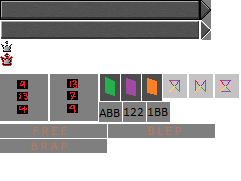
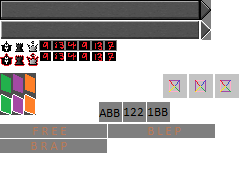
Finished lights puzzle

Changed region(s): [[0.0, 0.221, 0.6971, 0.6906]]

diff --git a/CubesPuzzle.h b/CubesPuzzle.h
@@ -1,5 +1,5 @@
-#ifndef LIGHTSPUZZLE_H
-#define LIGHTSPUZZLE_H
+#ifndef CUBESPUZZLE_H
+#define CUBESPUZZLE_H
 
 #include "room.h"
 #include "roomArrow.h"
@@ -7,20 +7,24 @@
 #include "gameMenu.h"
 #include "gameItem.h"
 
-// first room puzzle
-class LightsPuzzle: public Room {
+// Cubes puzzle
+class CubesPuzzle: public Room {
     private:
         RoomArrow* buttons;
         GameItem* options;
         bool mainWall;
         int nOptions;
+        bool answerOne;
+        bool answerTwo;
     public:
         // constructor
-        LightsPuzzle(RenderWindow* win) {
+        CubesPuzzle(RenderWindow* win) {
             // initialises room settings
-            setRoom(320,0);
+            setRoom(160,180);
             active = false;
             mainWall = true;
+            answerOne = false;
+            answerTwo = false;
 
             // defines the number of arrows and defines each one
             buttons = new RoomArrow[2];
@@ -29,16 +33,19 @@ class LightsPuzzle: public Room {
             buttons[1].flipButton();
         
             // creates the clickable buttons
-            nOptions = 3;
+            nOptions = 6;
             options = new GameItem[nOptions];
             for (int i = 0; i < nOptions; i++) {
-                options[i].createSprite(12,21,6);
+                options[i].createSprite(13,11,6);
             }
 
             // positions the 3 options
-            options[0].setPosition(win,555,305);
-            options[1].setPosition(win,825,305);
-            options[2].setPosition(win,1150,305);
+            options[0].setPosition(win,200,280);
+            options[1].setPosition(win,200,310);
+            options[2].setPosition(win,200,340);
+            options[3].setPosition(win,260,280);
+            options[4].setPosition(win,260,310);
+            options[5].setPosition(win,260,340);
         }
 
         // draws the room and items
@@ -66,7 +73,7 @@ class LightsPuzzle: public Room {
                 if (e.type == Event::MouseButtonPressed) {
                     // moves to new screen
                     if (e.mouseButton.button == Mouse::Left) {
-                        setRoom(320,90);
+                        setRoom(160,270);
                         mainWall = false;
                     }   
                 }
@@ -74,21 +81,35 @@ class LightsPuzzle: public Room {
                 if (e.type == Event::MouseButtonPressed) {
                     // moves back to original
                     if (e.mouseButton.button == Mouse::Left) {
-                        setRoom(320,0);
+                        setRoom(160,180);
                         mainWall = true;
                     }
                 } 
-            } else if (options[0].highlightSprite(cursor->getSprite(),0,73) && active && !mainWall) {
-                if (e.type == Event::MouseButtonPressed) {
-                    // does nothing;
-                }
-            } else if (options[1].highlightSprite(cursor->getSprite(),12,73) && active && !mainWall) {
+            } else if (options[0].highlightSprite(cursor->getSprite(),39,40) && active && !mainWall) {
                 // does nothing;
-            } else if (options[2].highlightSprite(cursor->getSprite(),24,73) && active && !mainWall) {
-                // correct answer
+            } else if (options[1].highlightSprite(cursor->getSprite(),39,51) && active && !mainWall) {
+                if (e.type == Event::MouseButtonPressed) {
+                    // correct answer
                     if (e.mouseButton.button == Mouse::Left) {
-                        active = false;
+                        answerOne = true;
                     }
+                }
+            } else if (options[2].highlightSprite(cursor->getSprite(),39,62) && active && !mainWall) {
+                // does nothing;
+            } else if (options[3].highlightSprite(cursor->getSprite(),65,40) && active && !mainWall) {
+                // does nothing;
+            } else if (options[4].highlightSprite(cursor->getSprite(),65,51) && active && !mainWall) {
+                // does nothing;
+            } else if (options[5].highlightSprite(cursor->getSprite(),65,62) && active && !mainWall) {
+                if (e.type == Event::MouseButtonPressed) {
+                    // correct answer
+                    /*if (e.mouseButton.button == Mouse::Left) {
+                        answerTwo = true;
+                        if (answerOne && answerTwo){
+                            active = false;
+                        }
+                    }*/
+                }
             }
         }
         
@@ -97,7 +118,7 @@ class LightsPuzzle: public Room {
             return active;
         }
 
-        ~LightsPuzzle() {
+        ~CubesPuzzle() {
             delete [] buttons;
             delete [] options;
         }

diff --git a/clickTest.h b/clickTest.h
@@ -9,6 +9,8 @@
 #include "button.h"
 #include "gameMenu.h"
 #include "ChessPuzzle.h"
+#include "LightsPuzzle.h"
+#include "Cubespuzzle.h"
 
 using namespace sf;
 
@@ -35,10 +37,12 @@ class ClickTest: public Game {
             *currentRoom = 0;
 
             // initialises the rooms and cursor
-            roomCount = 2;
+            roomCount = 4;
             rooms = new Room*[roomCount];
             rooms[0] = new GameMenu(win);
             rooms[1] = new ChessPuzzle(win);
+            rooms[2] = new LightsPuzzle(win);
+            rooms[3] = new CubesPuzzle(win);
             cursor = new Mouse_Cursor(win);
         }
 
@@ -60,11 +64,17 @@ class ClickTest: public Game {
                 std::cout << *currentRoom << std::endl;
 
             // checks if the first room is inactive and the current room is the first, then sets the next active
-            } /*else if (*currentRoom == 1 && !rooms[1]->getStatus()) {
+            } else if (*currentRoom == 1 && !rooms[1]->getStatus()) {
                 rooms[2]->setActive();
                 *currentRoom = 2;
                 std::cout << *currentRoom << std::endl;
-            }*/
+
+            
+            } else if (*currentRoom == 2 && !rooms[2]->getStatus()) {
+                rooms[3]->setActive();
+                *currentRoom = 3;
+                std::cout << *currentRoom << std::endl;
+            }
             
         }
 

diff --git a/gameItem.h b/gameItem.h
@@ -10,8 +10,8 @@ class GameItem: public GameEntity {
         GameItem () {}
         void createSprite(int x, int y, int scale) {
             // determines the size of each button
-            source.height = x;
-            source.width = y;
+            source.height = y;
+            source.width = x;
             
             // creates the sprite and sets the scale
             body = new Sprite();

diff --git a/ChessPuzzle.h b/ChessPuzzle.h
@@ -37,7 +37,7 @@ class ChessPuzzle: public Room {
 
             // positions the 3 options
             options[0].setPosition(win,555,235);
-            options[1].setPosition(win,835,505);
+            options[1].setPosition(win,825,505);
             options[2].setPosition(win,290,510);
         }
 
